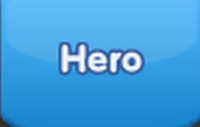
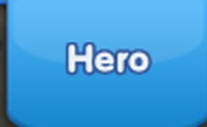
Fix bag flow tab detection with unified coordinates
- Unified tab regions: same coordinates for active/inactive templates
  - Special: (1525, 2033, 163, 96)
  - Hero: (2158, 2015, 207, 127)
  - Resources: (1732, 2018, 179, 111)

- Re-extracted all active tab templates at correct positions
- Fixed 4-pixel offset that caused tab detection to fail (0.04 scores)
- Now all tabs detect with score ~0.00

- Daemon logging: changed print() to logger.info() for status line
  - Both log files now have identical content
  - No more confusing split between current_daemon.log and timestamped log

🤖 Generated with [Claude Code](https://claude.com/claude-code)

Changed region(s): [[0.27, 0.3307, 0.75, 0.6142], [0.0, 0.0, 0.15, 1.0]]

diff --git a/scripts/icon_daemon.py b/scripts/icon_daemon.py
@@ -61,6 +61,7 @@ from utils.afk_rewards_matcher import AfkRewardsMatcher
 from utils.windows_screenshot_helper import WindowsScreenshotHelper
 from utils.idle_detector import get_idle_seconds, format_idle_time
 from utils.bluestacks_idle_detector import get_bluestacks_idle_detector, format_bluestacks_idle_time
+from utils.user_idle_tracker import get_user_idle_tracker, format_user_idle_time
 from utils.view_state_detector import detect_view, go_to_town, go_to_world, ViewState
 from utils.dog_house_matcher import DogHouseMatcher
 from utils.return_to_base_view import return_to_base_view
@@ -164,8 +165,11 @@ class IconDaemon:
         self.IDLE_THRESHOLD = IDLE_THRESHOLD
         self.IDLE_CHECK_INTERVAL = IDLE_CHECK_INTERVAL
 
-        # BlueStacks-specific idle detection
+        # BlueStacks-specific idle detection (deprecated - keeping for logging only)
         self.bluestacks_idle_detector = get_bluestacks_idle_detector()
+
+        # User idle tracker - excludes daemon's own clicks from idle calculation
+        self.user_idle_tracker = get_user_idle_tracker()
 
         # Elite zombie rally - stamina threshold (from config)
         self.ELITE_ZOMBIE_STAMINA_THRESHOLD = ELITE_ZOMBIE_STAMINA_THRESHOLD
@@ -338,8 +342,8 @@ class IconDaemon:
             raise RuntimeError("Could not start OCR server!")
         print("  OCR server is running")
 
-        # ADB
-        self.adb = ADBHelper()
+        # ADB - with callback to track daemon actions for accurate idle detection
+        self.adb = ADBHelper(on_action=self.user_idle_tracker.mark_daemon_action)
         print(f"  Connected to device: {self.adb.device}")
 
         # Windows screenshot helper
@@ -702,19 +706,19 @@ class IconDaemon:
                 world_present = (view_state == "TOWN")
                 town_present = (view_state == "WORLD")
 
-                # Get idle time (system-wide)
+                # Get idle time (system-wide) - for logging only
                 idle_secs = get_idle_seconds()
                 idle_str = format_idle_time(idle_secs)
 
-                # Get BlueStacks-specific idle time
-                self.bluestacks_idle_detector.update()
-                bs_idle_secs = self.bluestacks_idle_detector.get_bluestacks_idle_seconds()
-                bs_idle_str = format_bluestacks_idle_time(bs_idle_secs)
+                # Get user idle time (excludes daemon's own clicks)
+                # This is the REAL idle time - daemon ADB clicks don't reset this
+                self.user_idle_tracker.update()
+                user_idle_secs = self.user_idle_tracker.get_user_idle_seconds()
+                user_idle_str = format_user_idle_time(user_idle_secs)
 
-                # Choose effective idle based on config (USE_BLUESTACKS_IDLE)
-                # True = BlueStacks-specific (typing in Chrome doesn't reset idle)
-                # False = System-wide (any input resets idle)
-                effective_idle_secs = bs_idle_secs if USE_BLUESTACKS_IDLE else idle_secs
+                # Use user idle for all automation checks
+                # The old bluestacks_idle and system_idle are kept for logging only
+                effective_idle_secs = user_idle_secs
 
                 # Get Pacific time for logging
                 pacific_time = datetime.now(self.pacific_tz).strftime('%H:%M:%S')
@@ -732,8 +736,8 @@ class IconDaemon:
                 vs_promo_active = arms_race['day'] in self.VS_SOLDIER_PROMOTION_DAYS
                 vs_indicator = " [VS:Promo]" if vs_promo_active else ""
 
-                # Always print scores to stdout with view state, stamina, barracks, and arms race
-                print(f"[{iteration}] {pacific_time} [{view_state}] Stamina:{stamina_str} idle:{idle_str} bs:{bs_idle_str} AR:{arms_race_event[:3]}({arms_race_remaining_mins}m){vs_indicator} Barracks:[{barracks_state_str}] H:{handshake_score:.3f} T:{treasure_score:.3f} C:{corn_score:.3f} G:{gold_score:.3f} HB:{harvest_score:.3f} I:{iron_score:.3f} Gem:{gem_score:.3f} Cab:{cabbage_score:.3f} Eq:{equip_score:.3f} AFK:{afk_score:.3f} V:{view_score:.3f} B:{back_score:.3f}")
+                # Log status line with view state, stamina, barracks, and arms race
+                self.logger.info(f"[{iteration}] {pacific_time} [{view_state}] Stamina:{stamina_str} sys:{idle_str} user:{user_idle_str} AR:{arms_race_event[:3]}({arms_race_remaining_mins}m){vs_indicator} Barracks:[{barracks_state_str}] H:{handshake_score:.3f} T:{treasure_score:.3f} C:{corn_score:.3f} G:{gold_score:.3f} HB:{harvest_score:.3f} I:{iron_score:.3f} Gem:{gem_score:.3f} Cab:{cabbage_score:.3f} Eq:{equip_score:.3f} AFK:{afk_score:.3f} V:{view_score:.3f} B:{back_score:.3f}")
 
                 # Log detailed barracks scores (s=stopwatch, y=yellow, w=white)
                 # Only log when barracks has UNKNOWN or PENDING state (to avoid noise)

diff --git a/scripts/flows/bag_flow.py b/scripts/flows/bag_flow.py
@@ -34,9 +34,23 @@ BAG_BUTTON_CLICK = (3732, 1633)
 BAG_TAB_REGION = (1352, 32, 1127, 90)
 BACK_BUTTON_CLICK = (1407, 2055)
 
-VERIFICATION_THRESHOLD = 0.1
+VERIFICATION_THRESHOLD = 0.01
 
 TEMPLATES_DIR = Path(__file__).resolve().parent.parent.parent / "templates" / "ground_truth"
+
+# Active tab templates - match all, lowest score = current tab
+ACTIVE_TAB_TEMPLATES = {
+    "special": "bag_special_tab_active_4k.png",
+    "resources": "bag_resources_tab_active_4k.png",
+    "hero": "bag_hero_tab_active_4k.png",
+}
+
+# Tab click positions (4K)
+TAB_CLICK_POSITIONS = {
+    "special": (1602, 2080),
+    "resources": (1827, 2076),
+    "hero": (2257, 2078),
+}
 
 
 def _load_template(name: str) -> np.ndarray:
@@ -56,6 +70,72 @@ def _verify_at_fixed_region(frame_gray: np.ndarray, template: np.ndarray,
     result = cv2.matchTemplate(roi, template, cv2.TM_SQDIFF_NORMED)
     min_val, _, _, _ = cv2.minMaxLoc(result)
     return min_val <= threshold, min_val
+
+
+def detect_active_tab(frame_gray: np.ndarray, debug: bool = False) -> str | None:
+    """
+    Detect which bag tab is currently active by matching all active templates.
+
+    Returns the tab name with lowest score that passes threshold, or None.
+    """
+    best_tab = None
+    best_score = 1.0
+
+    for tab_name, template_name in ACTIVE_TAB_TEMPLATES.items():
+        template = _load_template(template_name)
+        result = cv2.matchTemplate(frame_gray, template, cv2.TM_SQDIFF_NORMED)
+        min_val, _, _, _ = cv2.minMaxLoc(result)
+
+        if debug:
+            print(f"    {tab_name}: {min_val:.4f}")
+
+        if min_val < best_score and min_val <= VERIFICATION_THRESHOLD:
+            best_score = min_val
+            best_tab = tab_name
+
+    return best_tab
+
+
+def switch_to_tab(adb, win, target_tab: str, debug: bool = False) -> bool:
+    """
+    Switch to the specified tab if not already there.
+
+    Returns True if successfully on target tab.
+    """
+    frame = win.get_screenshot_cv2()
+    frame_gray = cv2.cvtColor(frame, cv2.COLOR_BGR2GRAY)
+
+    current_tab = detect_active_tab(frame_gray, debug=debug)
+
+    if current_tab == target_tab:
+        if debug:
+            print(f"  Already on {target_tab} tab")
+        return True
+
+    if target_tab not in TAB_CLICK_POSITIONS:
+        if debug:
+            print(f"  Unknown tab: {target_tab}")
+        return False
+
+    if debug:
+        print(f"  Current tab: {current_tab}, switching to {target_tab}...")
+
+    adb.tap(*TAB_CLICK_POSITIONS[target_tab])
+    time.sleep(0.5)
+
+    # Verify switch
+    frame = win.get_screenshot_cv2()
+    frame_gray = cv2.cvtColor(frame, cv2.COLOR_BGR2GRAY)
+    new_tab = detect_active_tab(frame_gray, debug=debug)
+
+    if new_tab == target_tab:
+        if debug:
+            print(f"  Switched to {target_tab} tab")
+        return True
+    else:
+        if debug:
+            print(f"  Failed to switch, still on {new_tab}")
+        return False
 
 
 def bag_flow(adb, win=None, debug: bool = False) -> dict:
@@ -123,20 +203,32 @@ def bag_flow(adb, win=None, debug: bool = False) -> dict:
     if debug:
         print(f"  Bag opened (score={score:.4f})")
 
-    # Step 3: Run Special tab flow (bag defaults to Special)
+    # Step 3: Run Special tab flow
     if debug:
         print("\n=== Special Tab ===")
-    results["special"] = bag_special_flow(adb, win, debug=debug, open_bag=False)
+    if switch_to_tab(adb, win, "special", debug=debug):
+        results["special"] = bag_special_flow(adb, win, debug=debug, open_bag=False)
+    else:
+        if debug:
+            print("  Failed to switch to Special tab")
 
     # Step 4: Run Hero tab flow
     if debug:
         print("\n=== Hero Tab ===")
-    results["hero"] = bag_hero_flow(adb, win, debug=debug, open_bag=False)
+    if switch_to_tab(adb, win, "hero", debug=debug):
+        results["hero"] = bag_hero_flow(adb, win, debug=debug, open_bag=False)
+    else:
+        if debug:
+            print("  Failed to switch to Hero tab")
 
     # Step 5: Run Resources tab flow
     if debug:
         print("\n=== Resources Tab ===")
-    results["resources"] = bag_resources_flow(adb, win, debug=debug, open_bag=False)
+    if switch_to_tab(adb, win, "resources", debug=debug):
+        results["resources"] = bag_resources_flow(adb, win, debug=debug, open_bag=False)
+    else:
+        if debug:
+            print("  Failed to switch to Resources tab")
 
     # Step 6: Close bag and return to base view
     if debug:

diff --git a/scripts/flows/bag_resources_flow.py b/scripts/flows/bag_resources_flow.py
@@ -32,8 +32,7 @@ from scripts.flows.bag_use_item_subflow import use_item_subflow
 BAG_BUTTON_REGION = (3679, 1577, 86, 93)
 BAG_BUTTON_CLICK = (3732, 1633)
 
-RESOURCES_TAB_REGION = (1732, 2018, 179, 111)  # Inactive tab region
-RESOURCES_TAB_ACTIVE_REGION = (1720, 2013, 223, 127)  # Active tab region
+RESOURCES_TAB_REGION = (1732, 2018, 179, 111)  # Same region for active/inactive
 RESOURCES_TAB_CLICK = (1831, 2076)
 
 BAG_TAB_REGION = (1352, 32, 1127, 90)
@@ -157,7 +156,7 @@ def bag_resources_flow(adb, win=None, debug: bool = False, open_bag: bool = True
     frame_gray = cv2.cvtColor(frame, cv2.COLOR_BGR2GRAY)
 
     # First check if Resources tab is already ACTIVE
-    is_active, active_score = _verify_at_fixed_region(frame_gray, resources_tab_active_template, RESOURCES_TAB_ACTIVE_REGION)
+    is_active, active_score = _verify_at_fixed_region(frame_gray, resources_tab_active_template, RESOURCES_TAB_REGION)
     if is_active:
         if debug:
             print(f"  Resources tab already ACTIVE (score={active_score:.4f})")
@@ -181,7 +180,7 @@ def bag_resources_flow(adb, win=None, debug: bool = False, open_bag: bool = True
         # Verify it's now ACTIVE
         frame = win.get_screenshot_cv2()
         frame_gray = cv2.cvtColor(frame, cv2.COLOR_BGR2GRAY)
-        is_active, active_score = _verify_at_fixed_region(frame_gray, resources_tab_active_template, RESOURCES_TAB_ACTIVE_REGION)
+        is_active, active_score = _verify_at_fixed_region(frame_gray, resources_tab_active_template, RESOURCES_TAB_REGION)
         if not is_active:
             if debug:
                 print(f"  Resources tab still not active after click (score={active_score:.4f})")

diff --git a/scripts/flows/bag_hero_flow.py b/scripts/flows/bag_hero_flow.py
@@ -32,9 +32,8 @@ BAG_BUTTON_CLICK = (3732, 1633)
 
 BAG_TAB_REGION = (1352, 32, 1127, 90)
 
-HERO_TAB_REGION = (2158, 2015, 207, 127)  # Hero tab button (unselected state)
-HERO_TAB_CLICK = (2261, 2078)  # Click center for Hero tab
-HERO_TAB_ACTIVE_REGION = (2165, 2015, 200, 127)  # Hero tab when ACTIVE/selected
+HERO_TAB_REGION = (2158, 2015, 207, 127)  # Same region for active/inactive
+HERO_TAB_CLICK = (2261, 2078)
 
 # Thresholds
 CHEST_THRESHOLD = 0.01
@@ -180,7 +179,7 @@ def bag_hero_flow(adb, win=None, debug: bool = False, open_bag: bool = True) -> 
     frame_gray = cv2.cvtColor(frame, cv2.COLOR_BGR2GRAY)
 
     # First check if Hero tab is already ACTIVE
-    is_active, active_score = _verify_at_fixed_region(frame_gray, hero_tab_active_template, HERO_TAB_ACTIVE_REGION)
+    is_active, active_score = _verify_at_fixed_region(frame_gray, hero_tab_active_template, HERO_TAB_REGION)
     if is_active:
         if debug:
             print(f"  Hero tab already ACTIVE (score={active_score:.4f})")
@@ -204,7 +203,7 @@ def bag_hero_flow(adb, win=None, debug: bool = False, open_bag: bool = True) -> 
         # Verify it's now ACTIVE
         frame = win.get_screenshot_cv2()
         frame_gray = cv2.cvtColor(frame, cv2.COLOR_BGR2GRAY)
-        is_active, active_score = _verify_at_fixed_region(frame_gray, hero_tab_active_template, HERO_TAB_ACTIVE_REGION)
+        is_active, active_score = _verify_at_fixed_region(frame_gray, hero_tab_active_template, HERO_TAB_REGION)
         if not is_active:
             if debug:
                 print(f"  Hero tab still not active after click (score={active_score:.4f})")

diff --git a/scripts/flows/bag_special_flow.py b/scripts/flows/bag_special_flow.py
@@ -36,7 +36,7 @@ BAG_BUTTON_CLICK = (3732, 1633)
 
 BAG_TAB_REGION = (1352, 32, 1127, 90)
 
-SPECIAL_TAB_ACTIVE_REGION = (1497, 2013, 211, 134)
+SPECIAL_TAB_REGION = (1525, 2033, 163, 96)  # Same region for active/inactive
 SPECIAL_TAB_CLICK = (1602, 2080)  # Only needed if switching from another tab
 
 # Thresholds
@@ -186,7 +186,7 @@ def bag_special_flow(adb, win=None, debug: bool = False, open_bag: bool = True) 
     frame = win.get_screenshot_cv2()
     frame_gray = cv2.cvtColor(frame, cv2.COLOR_BGR2GRAY)
 
-    is_active, score = _verify_at_fixed_region(frame_gray, special_tab_active_template, SPECIAL_TAB_ACTIVE_REGION)
+    is_active, score = _verify_at_fixed_region(frame_gray, special_tab_active_template, SPECIAL_TAB_REGION)
     if not is_active:
         if debug:
             print(f"  Special tab not active (score={score:.4f}), clicking...")
@@ -197,7 +197,7 @@ def bag_special_flow(adb, win=None, debug: bool = False, open_bag: bool = True) 
         # Re-verify
         frame = win.get_screenshot_cv2()
         frame_gray = cv2.cvtColor(frame, cv2.COLOR_BGR2GRAY)
-        is_active, score = _verify_at_fixed_region(frame_gray, special_tab_active_template, SPECIAL_TAB_ACTIVE_REGION)
+        is_active, score = _verify_at_fixed_region(frame_gray, special_tab_active_template, SPECIAL_TAB_REGION)
         if not is_active:
             if debug:
                 print(f"  Special tab still not active (score={score:.4f})")

diff --git a/.claude/CLAUDE.md b/.claude/CLAUDE.md
@@ -432,10 +432,20 @@ python scripts/icon_daemon.py --interval 5
 ```
 
 **Daemon Logging:**
-- Daemon stdout is automatically teed to `logs/current_daemon.log`
-- Always check `logs/current_daemon.log` for the current running daemon's output
-- Each daemon run also creates a timestamped log in `logs/daemon_YYYYMMDD_HHMMSS.log`
-- This ensures you can always find current daemon output at a consistent location
+
+Both log files have **identical content** (all logger output):
+- `logs/daemon_YYYYMMDD_HHMMSS.log` - Timestamped log file (archived)
+- `logs/current_daemon.log` - Latest daemon output (overwritten each restart)
+
+All daemon output (iteration status, flow triggers, errors) goes through Python logger to both files.
+
+```bash
+# Check current daemon output
+cat logs/current_daemon.log
+
+# Search for specific events
+grep "BAG FLOW\|triggering" logs/current_daemon.log
+```
 
 ### Idle Detection Modes
 
@@ -711,14 +721,15 @@ RALLY_MONSTERS = [
 **Resources Tab Templates**:
 - `bag_diamond_icon_4k.png` - Diamond icon
 
-**Tab Templates**:
+**Tab Templates** (unified coordinates - same region for active/inactive):
 - `bag_button_4k.png` - Bag button verification
 - `bag_tab_4k.png` - Verify bag menu opened (header)
-- `bag_special_tab_active_4k.png` - Special tab active state
-- `bag_hero_tab_active_4k.png` - Hero tab active state
-- `bag_hero_tab_4k.png` - Hero tab inactive state
-- `bag_resources_tab_active_4k.png` - Resources tab active state
-- `bag_resources_tab_4k.png` - Resources tab inactive state
+
+| Tab | Region (x, y, w, h) | Active Template | Inactive Template |
+|-----|---------------------|-----------------|-------------------|
+| Special | (1525, 2033, 163, 96) | `bag_special_tab_active_4k.png` | `bag_special_tab_4k.png` |
+| Hero | (2158, 2015, 207, 127) | `bag_hero_tab_active_4k.png` | `bag_hero_tab_4k.png` |
+| Resources | (1732, 2018, 179, 111) | `bag_resources_tab_active_4k.png` | `bag_resources_tab_4k.png` |
 
 ### Matcher Thresholds
 
